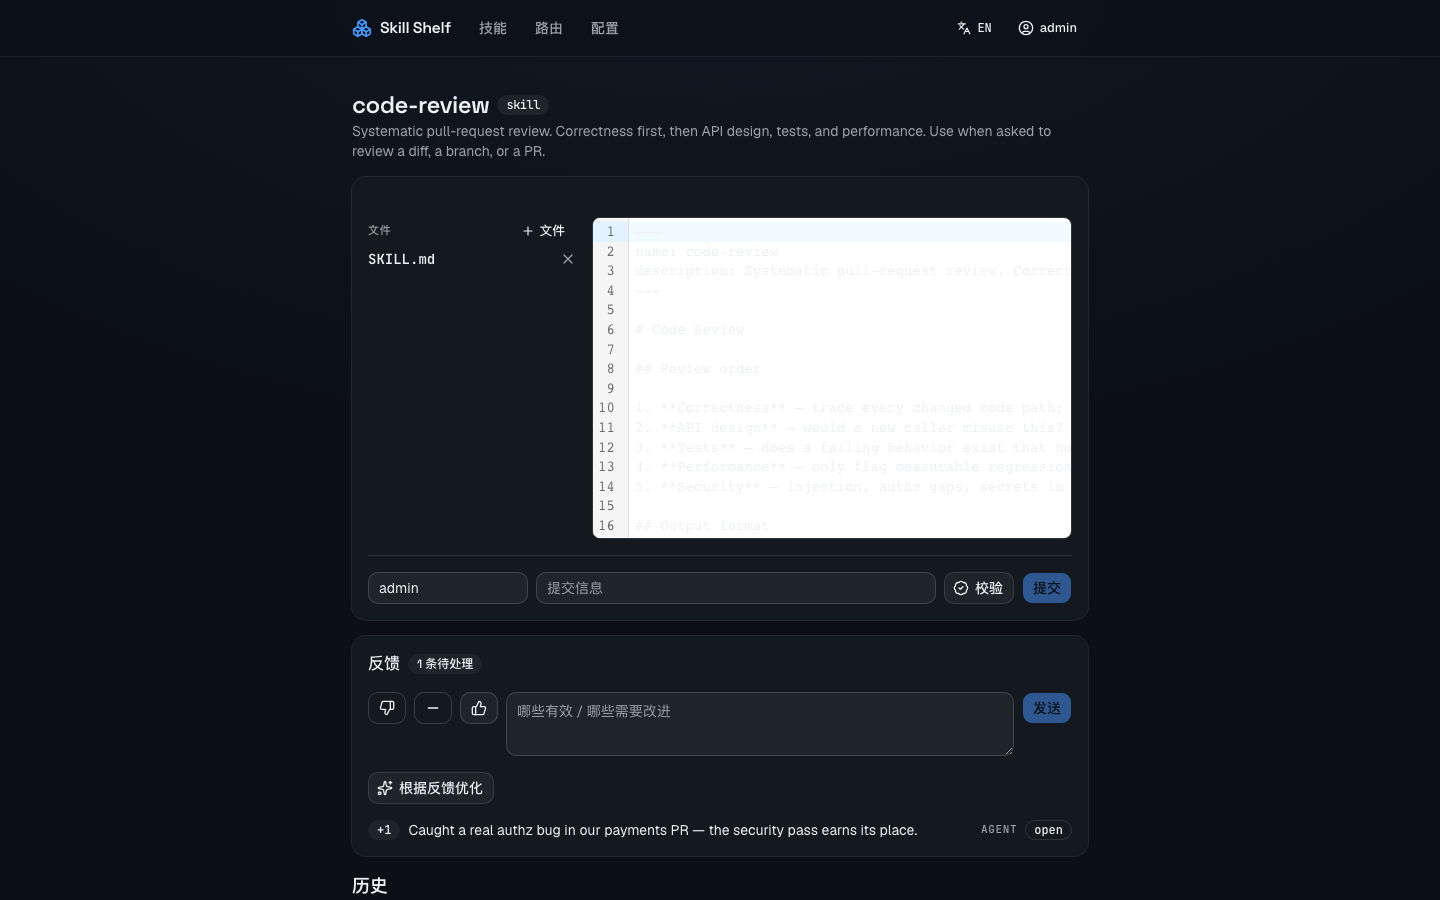
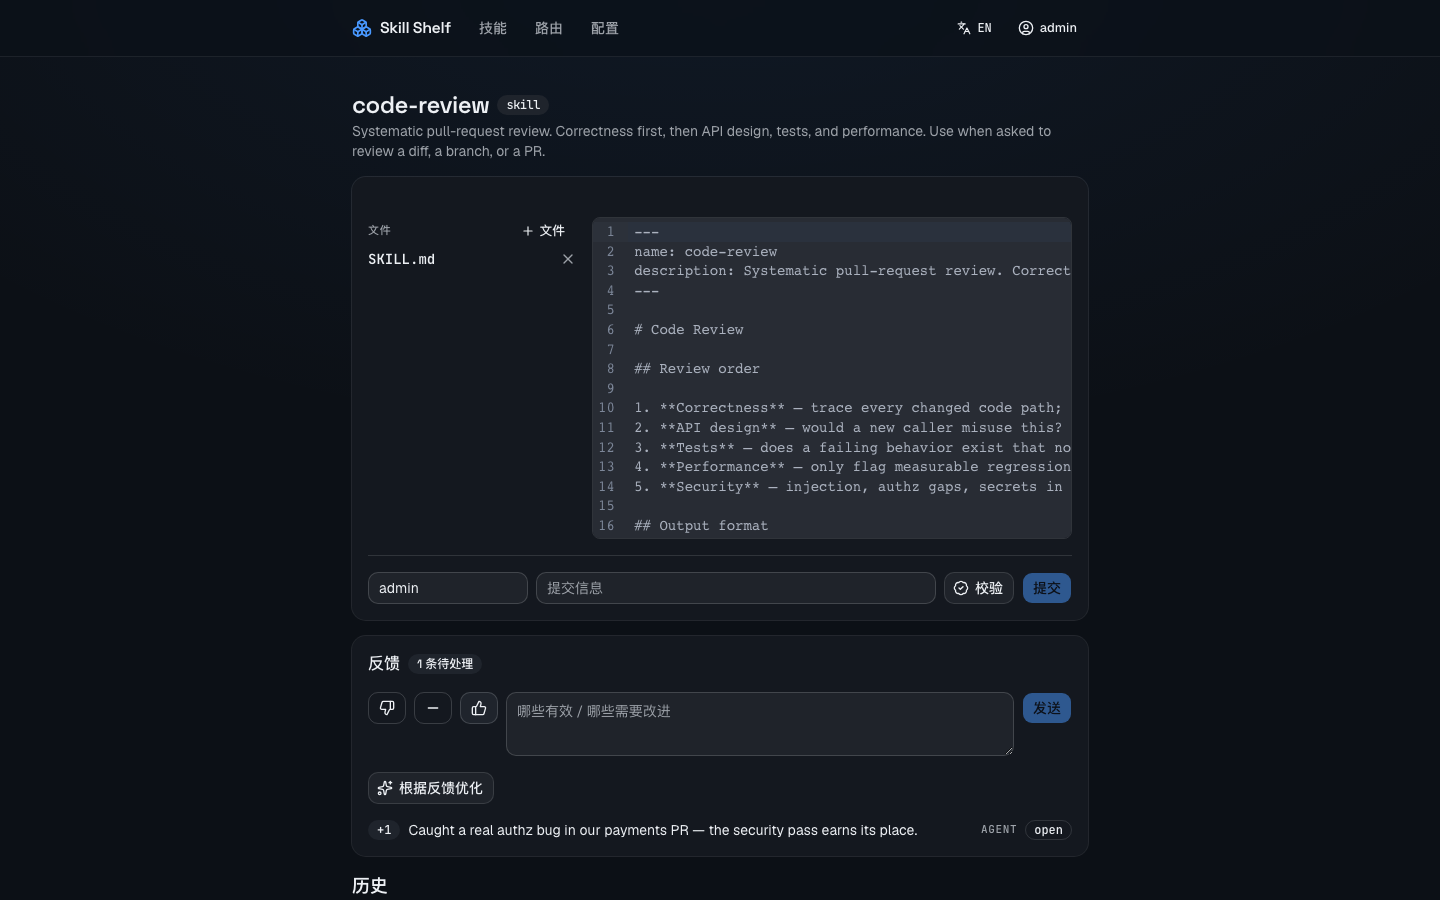
Follow the app theme in the CodeMirror editor
CodeMirror can't inherit CSS variables, so a reactive useIsDark hook
(MutationObserver on the root class) drives its theme prop. Refresh the
detail screenshot that showed the light editor on the dark page.

Changed region(s): [[0.4062, 0.2178, 0.75, 0.6222]]

diff --git a/app/src/pages/SkillDetail.tsx b/app/src/pages/SkillDetail.tsx
@@ -7,6 +7,7 @@ import { toast } from "sonner";
 import { api, encodeContent, type Commit, type FileDiff } from "../lib/api";
 import { useAuth } from "../lib/auth";
 import { useT } from "../lib/i18n";
+import { useIsDark } from "../lib/theme";
 import { Button } from "@/components/ui/button";
 import { Card, CardContent, CardHeader, CardTitle } from "@/components/ui/card";
 import { Badge } from "@/components/ui/badge";
@@ -29,6 +30,7 @@ export function SkillDetail() {
   const qc = useQueryClient();
   const { canWrite, user } = useAuth();
   const { t } = useT();
+  const isDark = useIsDark();
 
   const skill = useQuery({ queryKey: ["skill", id], queryFn: () => api.getSkill(id) });
   const commits = useQuery({ queryKey: ["commits", id], queryFn: () => api.listCommits(id) });
@@ -235,6 +237,7 @@ export function SkillDetail() {
                   <CodeMirror
                     value={files[active] ?? ""}
                     height="320px"
+                    theme={isDark ? "dark" : "light"}
                     editable={canWrite}
                     readOnly={!canWrite}
                     onChange={(v) => setFiles((f) => ({ ...f, [active]: v }))}

diff --git a/app/src/lib/theme.ts b/app/src/lib/theme.ts
@@ -1,3 +1,5 @@
+import { useSyncExternalStore } from "react";
+
 export type Theme = "system" | "light" | "dark";
 const KEY = "skillshelf.theme";
 
@@ -19,6 +21,19 @@ export function applyTheme(t: Theme = getTheme()): void {
 export function setTheme(t: Theme): void {
   localStorage.setItem(KEY, t);
   applyTheme(t);
+}
+
+/** Reactive resolved theme, for widgets that can't inherit CSS variables
+ * (e.g. CodeMirror). Tracks the `dark` class applyTheme() toggles. */
+export function useIsDark(): boolean {
+  return useSyncExternalStore(
+    (onChange) => {
+      const obs = new MutationObserver(onChange);
+      obs.observe(document.documentElement, { attributes: true, attributeFilter: ["class"] });
+      return () => obs.disconnect();
+    },
+    () => document.documentElement.classList.contains("dark"),
+  );
 }
 
 /** Apply on startup and keep following the system when set to "system". */
